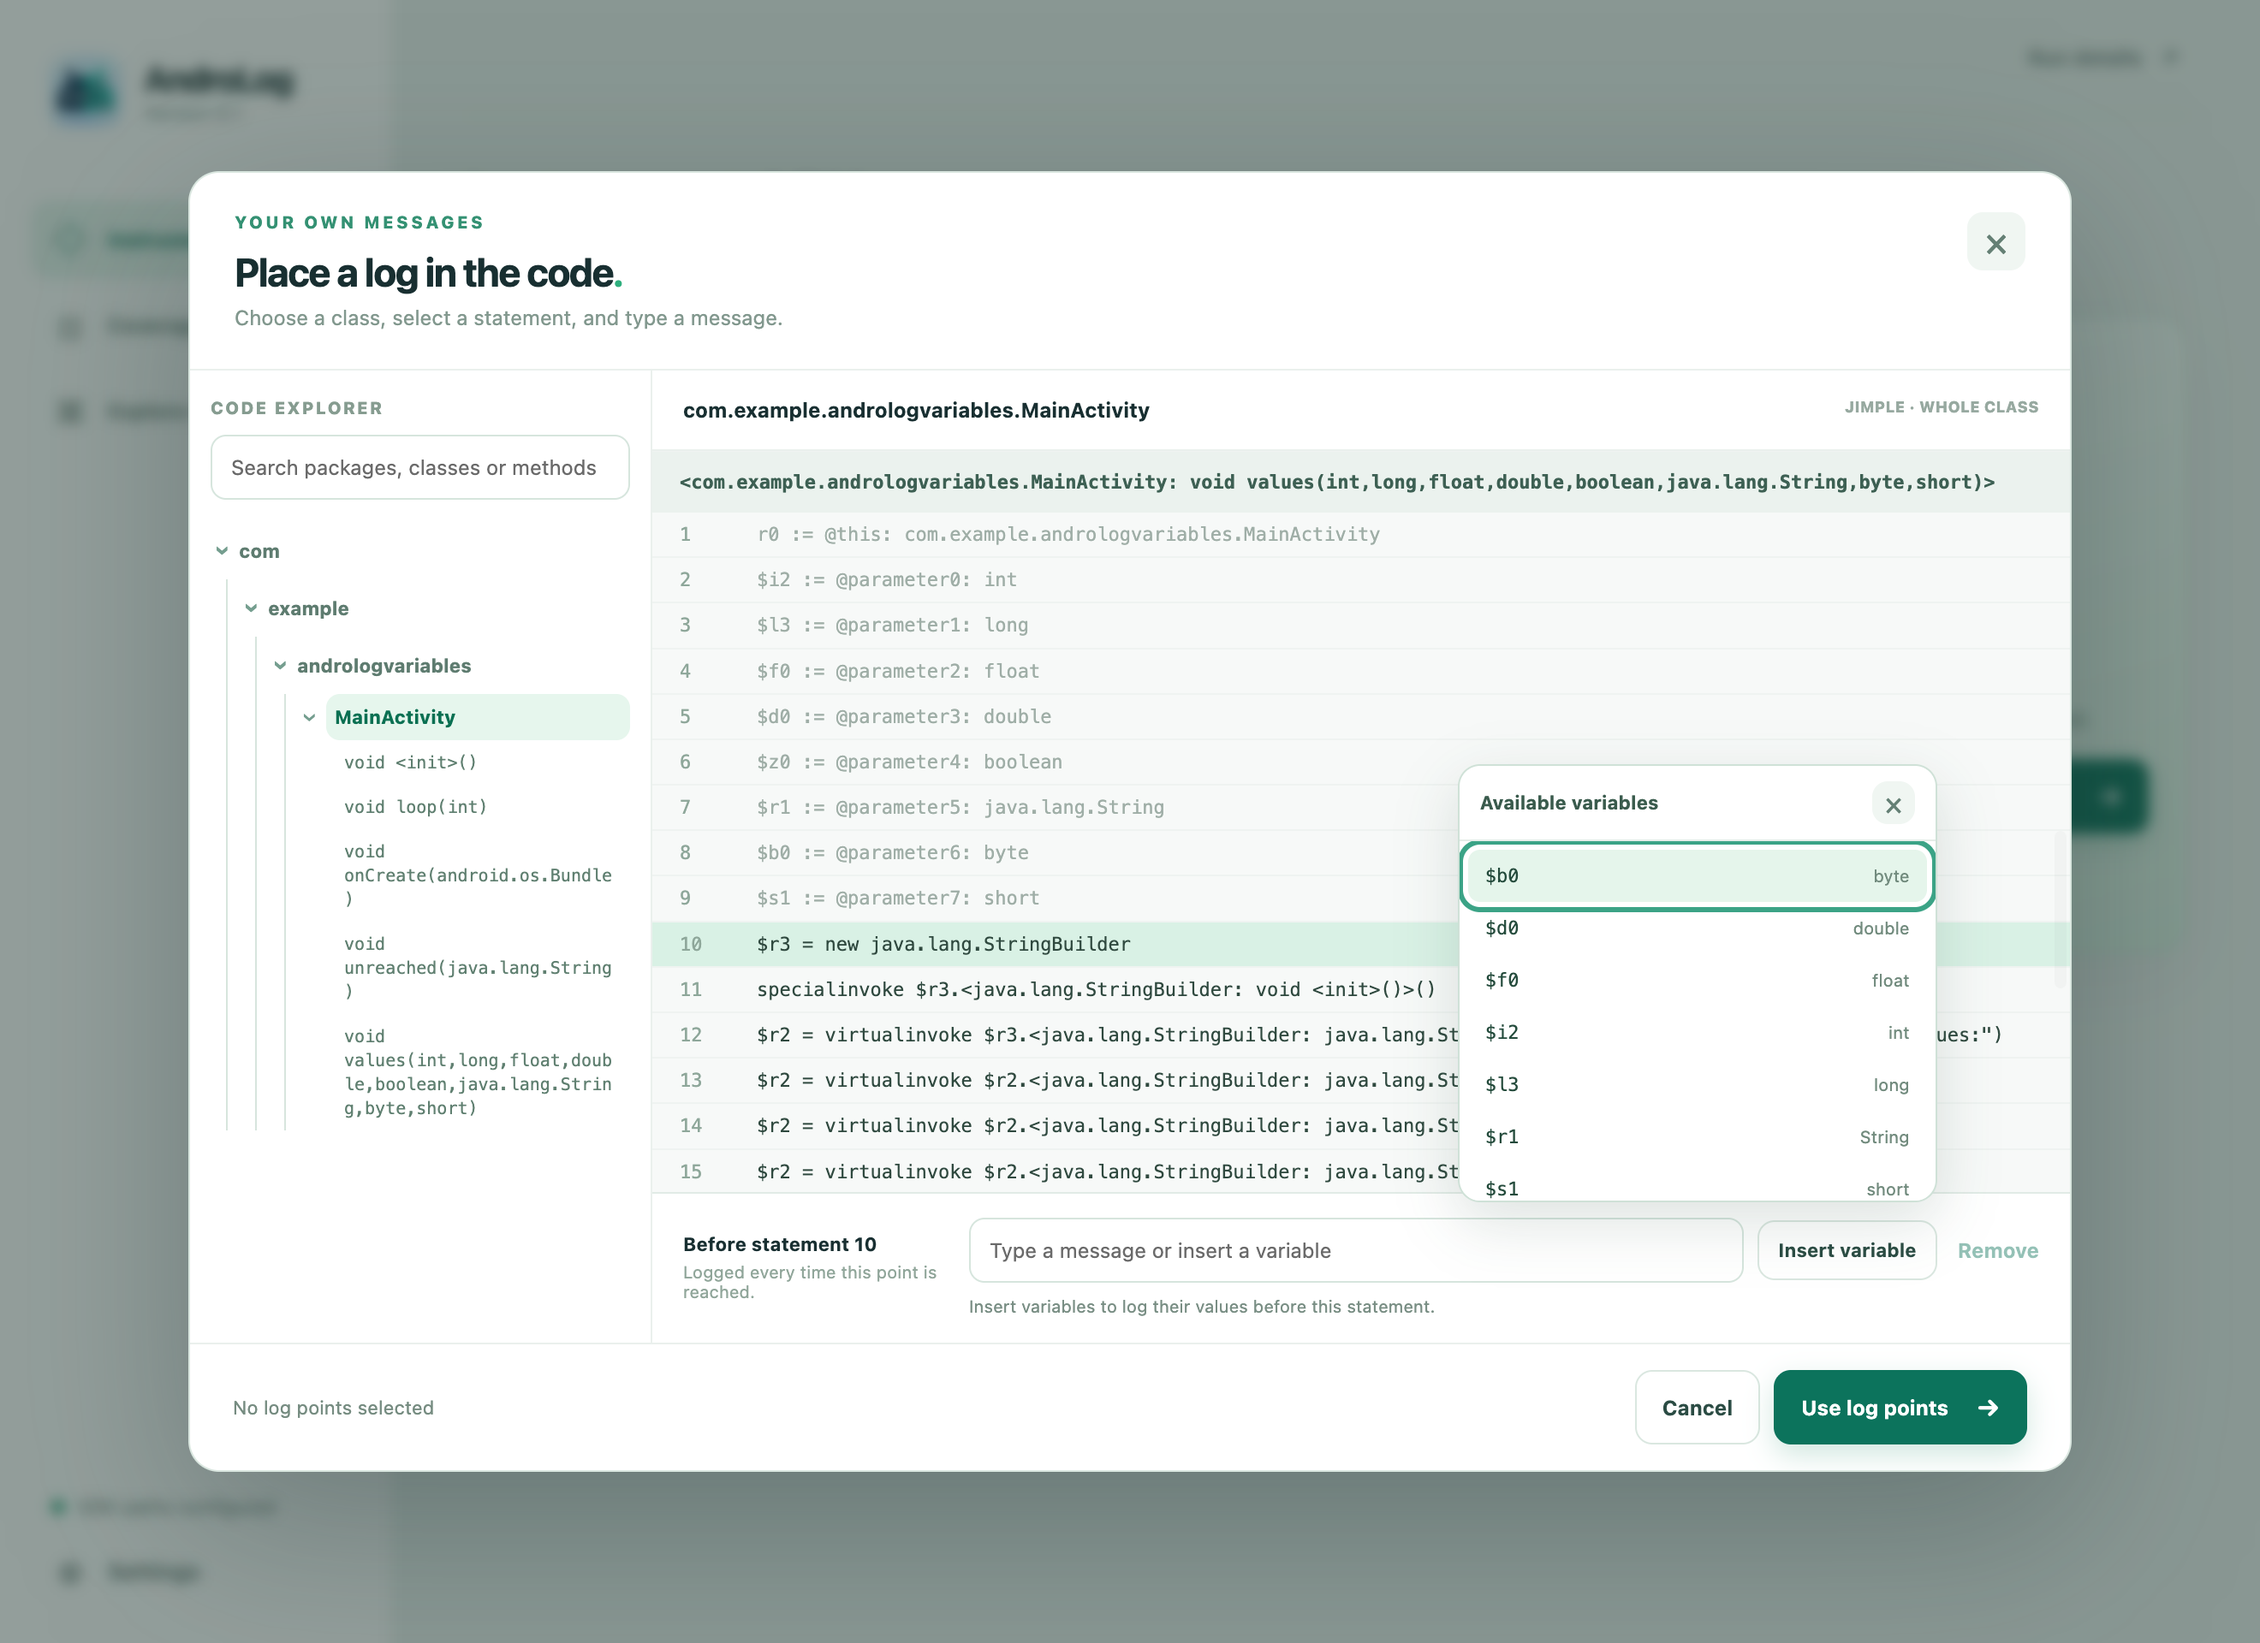
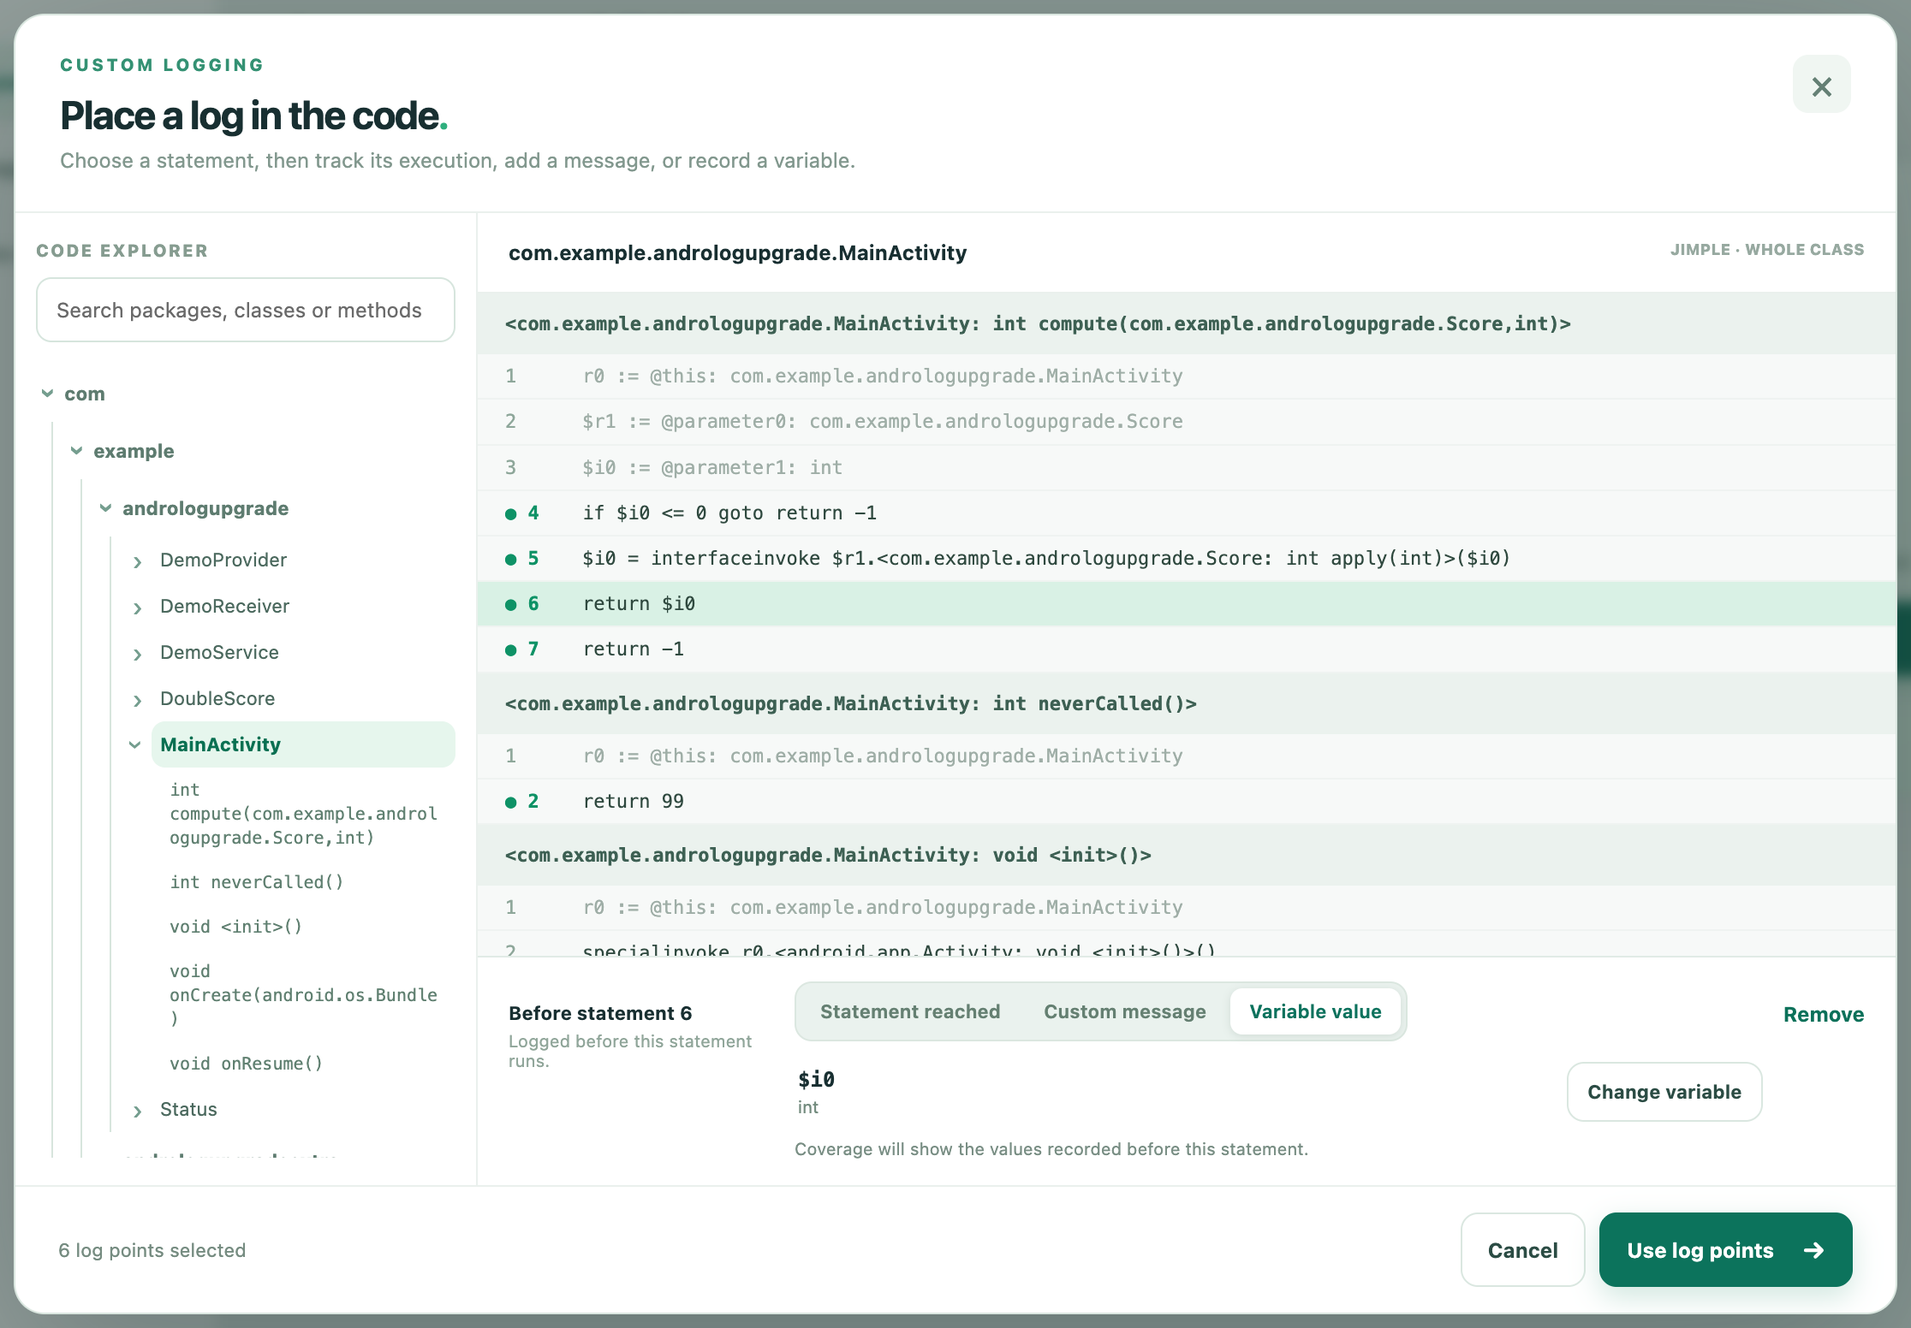
Refresh GUI screenshots for all three custom logging options

diff --git a/README.md b/README.md
@@ -49,7 +49,7 @@ Open **Custom logging**, browse the package → class → method tree, and selec
 
 Click **Use log points**, then **Instrument APK**. Choose **Custom only** if you want these points without automatic coverage probes. Values are recorded **before** the selected statement; to inspect an assignment's result, select the following statement. Objects use their `toString()` representation.
 
-[![Custom log editor with a selected statement and the Insert variable picker showing local names and types](data/screenshots/gui-custom-logs.png)](data/screenshots/gui-custom-logs.png)
+[![Custom log editor with Statement reached, Custom message, and Variable value options, a package tree, and a selected integer variable](data/screenshots/gui-custom-logs.png)](data/screenshots/gui-custom-logs.png)
 
 The code browser shows Jimple reconstructed from the APK. Messages and selected variable values are logged just before the chosen statement executes.
 
@@ -65,9 +65,11 @@ Each test keeps the exact APK and its logs together. You can also use the comman
 
 **Stop & analyze** opens the dashboard with your test's APK, logs, and tag already selected. It shows statements, methods, classes, and Android components observed during the run. For an existing capture, open its **instrumented APK** and **log file** in **Coverage**, enter the matching Logcat tag, and click **Analyze run**.
 
-[![Coverage dashboard with observed totals, percentages, and custom log results](data/screenshots/gui-coverage.png)](data/screenshots/gui-coverage.png)
+[![Coverage dashboard with observed totals and green percentage bars for statements, methods, classes, and Android components](data/screenshots/gui-coverage.png)](data/screenshots/gui-coverage.png)
 
 Custom logs are grouped into **Statement reached**, **Custom messages**, and **Variable values**, with green **Reached** or red **Not reached** feedback. Variable logs also show the **Latest value** printed during the run. Click a row to jump to its statement in Explore. Red means not observed in this capture, not necessarily unreachable.
+
+[![Results for all three custom logging options, with reached and unreached points and a captured integer value of 14](data/screenshots/gui-custom-results.png)](data/screenshots/gui-custom-results.png)
 
 **The instrumented APK and its logs are enough to analyze a run on another computer.** No original APK or local instrumentation history is required. AndroLog's added code is excluded from the statistics.
 
@@ -77,7 +79,7 @@ Custom logs are grouped into **Statement reached**, **Custom messages**, and **V
 
 [![Explore report showing a dynamic call graph with class navigation](data/screenshots/gui-dynamic-graph.png)](data/screenshots/gui-dynamic-graph.png)
 
-Use **Export HTML** to share an interactive report that opens offline in a browser. Screenshots use a test APK and sample logs; custom-log statuses are illustrated with controlled observations.
+Use **Export HTML** to share an interactive report that opens offline in a browser. Screenshots show a demonstration APK and its recorded execution on an Android emulator.
 
 ## Command line
 
